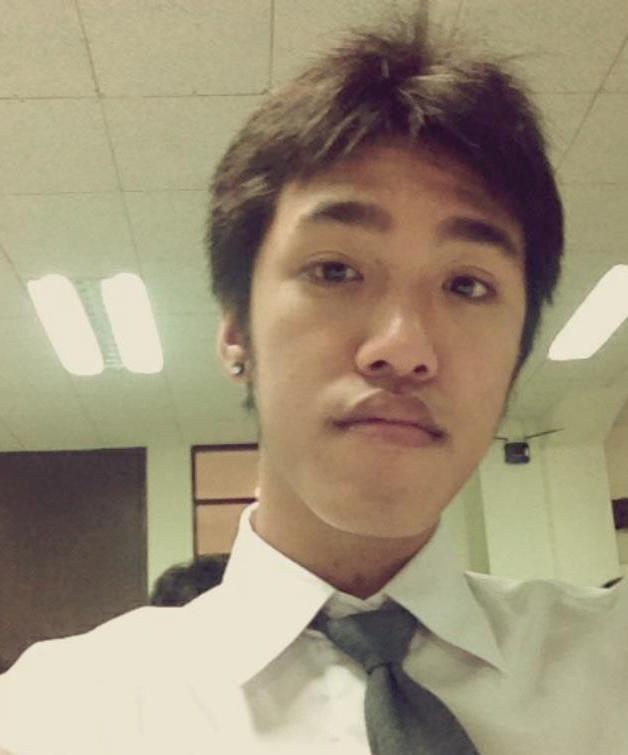
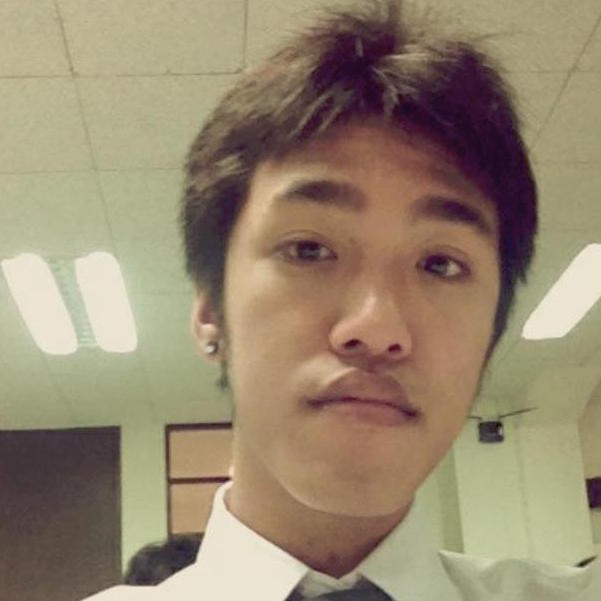
ลดขนาด padding

diff --git a/public/css/resumeSJ/resumesj.css b/public/css/resumeSJ/resumesj.css
@@ -11,6 +11,9 @@
 .background-fixed {
   background-color: white; }
 
+.circle {
+  border-radius: 50%; }
+
 .text-center {
   text-align: center; }
 
@@ -43,7 +46,7 @@
   .resume-container .resume-content {
     width: 100%;
     height: 100%;
-    padding: 15px 55px;
+    padding: 15px;
     background-color: white;
     -webkit-box-shadow: 2px 1px 36px -4px rgba(122, 122, 122, 0.94);
     -moz-box-shadow: 2px 1px 36px -4px rgba(122, 122, 122, 0.94);
@@ -67,6 +70,13 @@
         box-shadow: 2px 1px 36px -4px rgba(122, 122, 122, 0.94); }
     .resume-container .resume-content .resume-content-form {
       padding: 15px; }
+      .resume-container .resume-content .resume-content-form img {
+        width: 240px;
+        height: auto   !important;
+        margin: 0 auto;
+        -webkit-box-shadow: 2px 1px 36px -4px rgba(122, 122, 122, 0.94);
+        -moz-box-shadow: 2px 1px 36px -4px rgba(122, 122, 122, 0.94);
+        box-shadow: 2px 1px 36px -4px rgba(122, 122, 122, 0.94); }
       .resume-container .resume-content .resume-content-form label {
         font-size: 18px; }
       .resume-container .resume-content .resume-content-form p {

diff --git a/public/css/resumeSJ/resumesj.scss b/public/css/resumeSJ/resumesj.scss
@@ -11,6 +11,9 @@
 .background-fixed{
   background-color: white;
 }
+.circle{
+  border-radius: 50%;
+}
 .text-center{
   text-align: center;
 }
@@ -43,7 +46,7 @@
   .resume-content{
     width: 100%;
     height: 100%;
-    padding: 15px 55px;
+    padding: 15px;
     background-color: white;
     -webkit-box-shadow: 2px 1px 36px -4px rgba(122,122,122,0.94);
     -moz-box-shadow: 2px 1px 36px -4px rgba(122,122,122,0.94);
@@ -71,6 +74,14 @@
     }
     .resume-content-form{
       padding: 15px;
+      img{
+        width: 240px;
+        height: auto   !important;
+        margin: 0 auto;
+        -webkit-box-shadow: 2px 1px 36px -4px rgba(122,122,122,0.94);
+        -moz-box-shadow: 2px 1px 36px -4px rgba(122,122,122,0.94);
+        box-shadow: 2px 1px 36px -4px rgba(122,122,122,0.94);
+      }
       label{
         font-size: 18px;
       }

diff --git a/app/views/App/Index.html b/app/views/App/Index.html
@@ -12,8 +12,13 @@
       <div class="row">
         <div class="col-sm-12 col-xs-12 resume-content-header-text"><h1>ข้อมูลส่วนตัว</h1></div>
         <div class="col-md-12 resume-content-form">
-          <h1 class="text-center">สิทธิพงศ์ จึงสกุล (เพชร)</h1>
-          <h1 class="text-center">ผมเป็น Programmer และ Designer</h1>
+          <div>
+            <img src="/public/img/profile.jpg" class="img-responsive circle">
+          </div>
+          <div class="col-md-12">
+            <h1 class="text-center">สิทธิพงศ์ จึงสกุล (เพชร)</h1>
+            <h1 class="text-center">ผมเป็น Programmer และ Designer</h1>
+          </div>
         </div>
       </div>
     </div>
